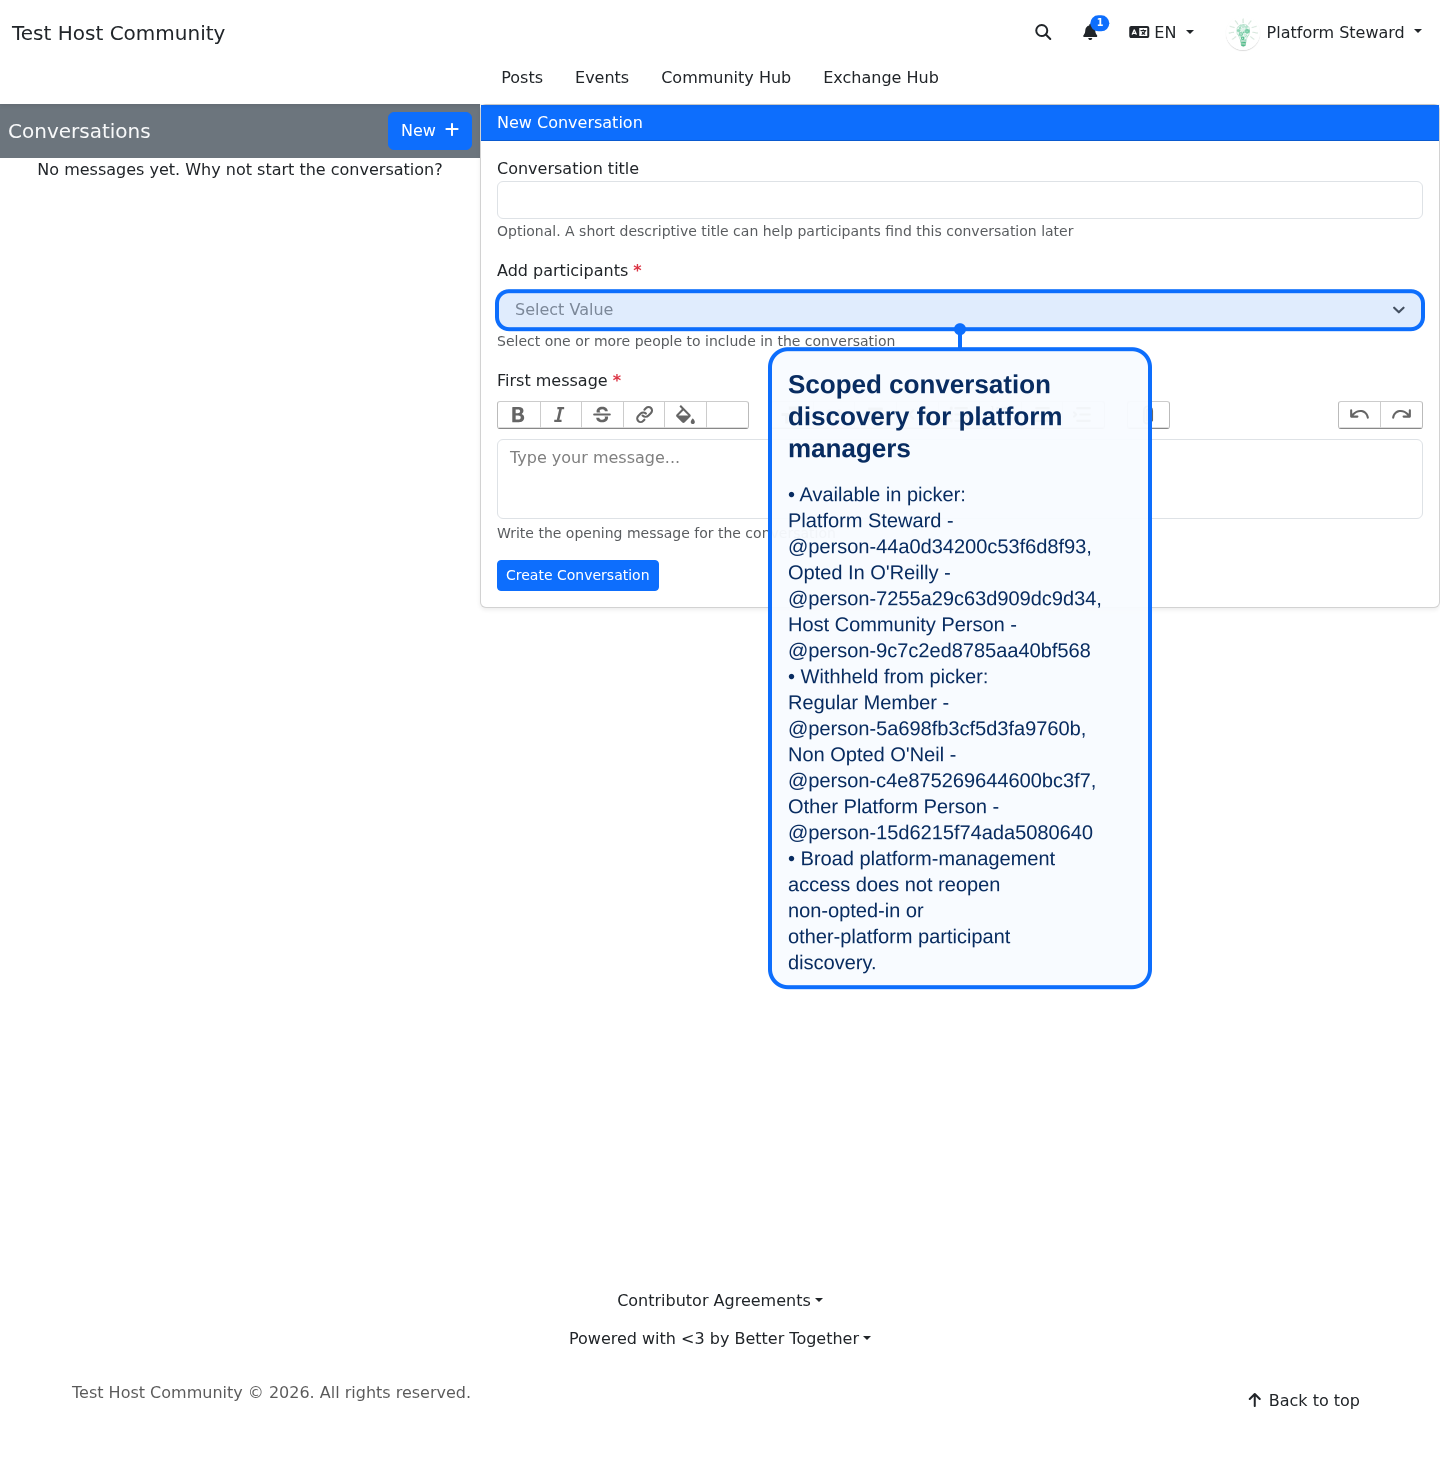
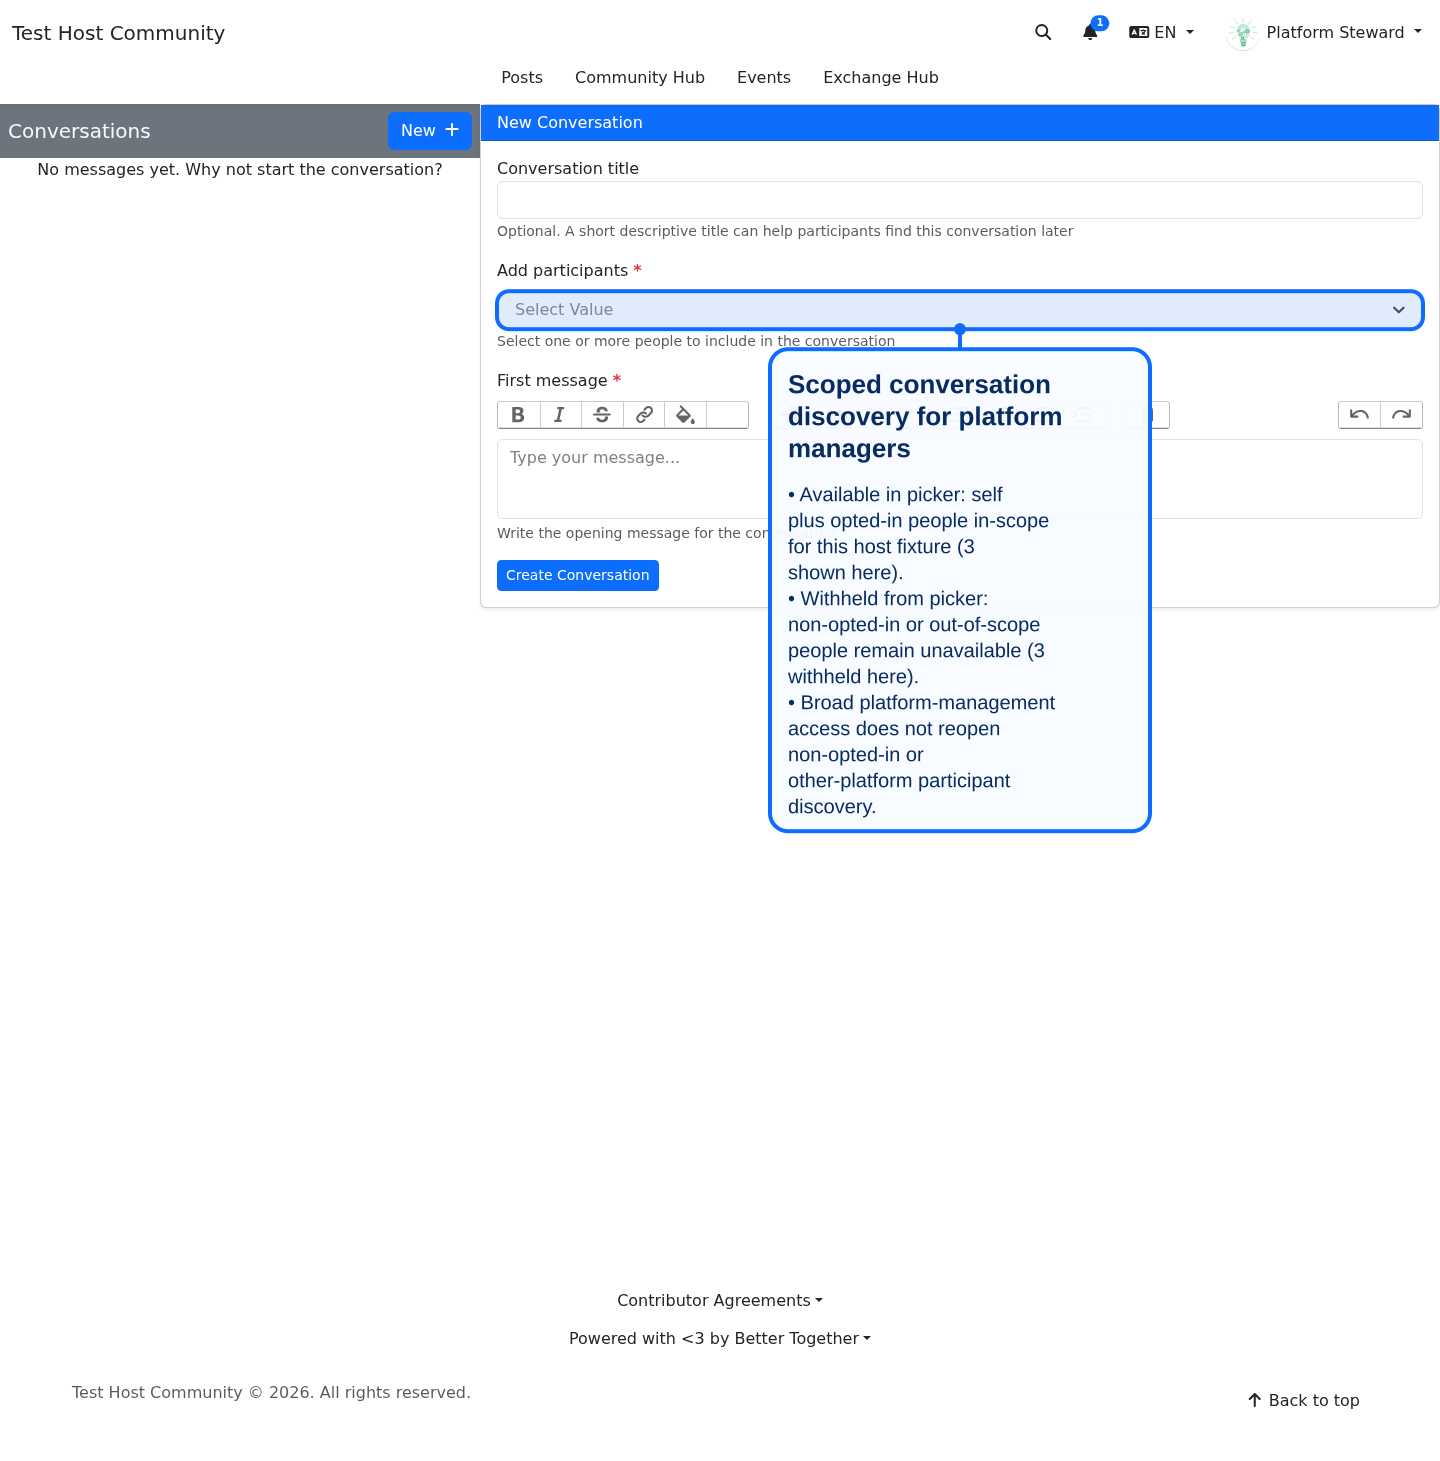
fix(docs): harden screenshot review artifacts
Sanitize screenshot sidecars, fail closed when declared callouts cannot be rendered, and normalize regenerated artifact permissions for git-friendly review updates.

Changed region(s): [[0.5312, 0.3388, 0.8125, 0.6776], [0.4062, 0.0308, 0.5312, 0.0616]]

diff --git a/spec/support/capybara_screenshot_engine.rb b/spec/support/capybara_screenshot_engine.rb
@@ -3,12 +3,15 @@
 require 'capybara'
 require 'fileutils'
 require 'json'
+require 'uri'
 
 module BetterTogether # :nodoc:
   # Captures deterministic desktop and mobile screenshots for documentation specs.
   # rubocop:disable Metrics/ModuleLength
   module CapybaraScreenshotEngine # :nodoc:
     extend self
+
+    class CalloutTargetResolutionError < StandardError; end
 
     SCREENSHOT_ROOT = BetterTogether::Engine.root.join('docs', 'screenshots').freeze
 
@@ -75,13 +78,21 @@ module BetterTogether # :nodoc:
         processed_metadata = default_metadata(name, device).merge(metadata)
         callout_targets = collect_callout_targets(callouts)
         Capybara.page.save_screenshot(image_path.to_s)
+        normalize_artifact_permissions(image_path)
         if callout_targets.any?
-          processed_metadata[:callouts] = BetterTogether::ScreenshotCalloutProcessor.process(
+          processed_callouts = BetterTogether::ScreenshotCalloutProcessor.process(
             image_path,
             callouts: callout_targets
           )
+          if processed_callouts.size != callout_targets.size
+            raise CalloutTargetResolutionError,
+                  "Declared #{callout_targets.size} screenshot callout(s), rendered #{processed_callouts.size}"
+          end
+
+          processed_metadata[:callouts] = processed_callouts
         end
         File.write(json_path, JSON.pretty_generate(processed_metadata))
+        normalize_artifact_permissions(json_path)
       ensure
         restore_sticky_elements
       end
@@ -94,9 +105,8 @@ module BetterTogether # :nodoc:
       {
         name:,
         device: device.to_s,
-        url: safe_page_value { Capybara.page.current_url },
-        title: safe_page_value { Capybara.page.title },
-        captured_at: Time.current.utc.iso8601
+        url: safe_page_value { normalize_page_url(Capybara.page.current_url) },
+        title: safe_page_value { Capybara.page.title }
       }
     end
 
@@ -114,11 +124,18 @@ module BetterTogether # :nodoc:
       nil
     end
 
+    # rubocop:disable Metrics/AbcSize, Metrics/CyclomaticComplexity, Metrics/PerceivedComplexity
     def collect_callout_targets(callouts)
       normalized = Array(callouts).map { |callout| normalize_callout(callout) }.reject { |callout| callout[:selector].blank? }
       return [] if normalized.empty?
 
       geometry_by_selector = fetch_callout_geometry(normalized.map { |callout| callout[:selector] })
+      missing_selectors = normalized.map { |callout| callout[:selector] } - geometry_by_selector.keys
+      if missing_selectors.any?
+        raise CalloutTargetResolutionError,
+              "Could not resolve screenshot callout target(s): #{missing_selectors.join(', ')}"
+      end
+
       normalized.filter_map do |callout|
         geometry = geometry_by_selector[callout[:selector]]
         next unless geometry
@@ -126,6 +143,7 @@ module BetterTogether # :nodoc:
         callout.merge(target: geometry)
       end
     end
+    # rubocop:enable Metrics/AbcSize, Metrics/CyclomaticComplexity, Metrics/PerceivedComplexity
 
     def normalize_callout(callout)
       {
@@ -181,10 +199,26 @@ module BetterTogether # :nodoc:
           }
         ]
       end
-    rescue StandardError
-      {}
+    rescue StandardError => e
+      raise CalloutTargetResolutionError, "Failed to resolve screenshot callout geometry: #{e.message}"
     end
     # rubocop:enable Metrics/AbcSize, Metrics/CyclomaticComplexity, Metrics/MethodLength
+
+    def normalize_page_url(url)
+      return if url.blank?
+
+      uri = URI.parse(url)
+      path = uri.path.presence || '/'
+      uri.query.present? ? "#{path}?#{uri.query}" : path
+    rescue URI::InvalidURIError
+      url.to_s.sub(%r{\Ahttps?://[^/]+}, '')
+    end
+
+    def normalize_artifact_permissions(path)
+      File.chmod(0o644, path.to_s) if File.exist?(path)
+    rescue StandardError
+      nil
+    end
 
     # rubocop:disable Metrics/MethodLength
     def hide_sticky_elements

diff --git a/spec/lib/better_together/capybara_screenshot_engine_spec.rb b/spec/lib/better_together/capybara_screenshot_engine_spec.rb
@@ -47,9 +47,50 @@ module BetterTogether # :nodoc:
 
           metadata = JSON.parse(File.read(File.join(dir, 'desktop', 'conversation_scope.json')))
           expect(metadata['flow']).to eq('conversation_participant_scope')
+          expect(metadata['url']).to eq('/en/conversations/new')
+          expect(metadata).not_to have_key('captured_at')
           expect(metadata['callouts'].size).to eq(1)
           expect(metadata['callouts'].first['selector']).to eq('select[name="conversation[participant_ids][]"]')
           expect(metadata['callouts'].first['placement']['side']).to be_in(%w[right left above below floating])
+          expect(File.stat(File.join(dir, 'desktop', 'conversation_scope.png')).mode & 0o777).to eq(0o644)
+          expect(File.stat(File.join(dir, 'desktop', 'conversation_scope.json')).mode & 0o777).to eq(0o644)
+        end
+      end
+
+      it 'fails closed when a declared callout selector cannot be resolved' do
+        Dir.mktmpdir do |dir|
+          stub_const("#{described_class}::SCREENSHOT_ROOT", Pathname.new(dir))
+
+          fake_page = instance_double(Capybara::Session)
+          allow(described_class).to receive(:register_drivers)
+          allow(described_class).to receive(:driver_for).and_return(:selenium_chrome_headless_docs_desktop)
+          allow(described_class).to receive(:hide_sticky_elements)
+          allow(described_class).to receive(:restore_sticky_elements)
+          allow(Capybara).to receive(:reset_sessions!)
+          allow(Capybara).to receive(:page).and_return(fake_page)
+          allow(Capybara).to receive(:using_driver).and_yield
+          allow(fake_page).to receive_messages(
+            current_url: 'http://example.test/en/conversations/new',
+            title: 'Test Host Community',
+            evaluate_script: []
+          )
+
+          expect do
+            described_class.capture(
+              'missing_callout',
+              device: :desktop,
+              callouts: [
+                {
+                  selector: 'select[name="conversation[participant_ids][]"]',
+                  title: 'Scoped conversation discovery for platform managers',
+                  bullets: ['Available in picker: self']
+                }
+              ]
+            )
+          end.to raise_error(
+            described_class::CalloutTargetResolutionError,
+            /Could not resolve screenshot callout target/
+          )
         end
       end
     end

diff --git a/spec/docs_screenshots/better_together/platform_manager_least_privilege_review_spec.rb b/spec/docs_screenshots/better_together/platform_manager_least_privilege_review_spec.rb
@@ -111,8 +111,8 @@ RSpec.describe 'Documentation screenshots for reduced platform-manager access',
           selector: 'select[name="conversation[participant_ids][]"]',
           title: 'Scoped conversation discovery for platform managers',
           bullets: [
-            "Available in picker: #{expected_allowed_labels.join(', ')}",
-            "Withheld from picker: #{withheld_labels.join(', ')}",
+            "Available in picker: self plus opted-in people in-scope for this host fixture (#{expected_allowed_labels.size} shown here).",
+            "Withheld from picker: non-opted-in or out-of-scope people remain unavailable (#{withheld_labels.size} withheld here).",
             'Broad platform-management access does not reopen non-opted-in or other-platform participant discovery.'
           ]
         }

diff --git a/spec/lib/better_together/screenshot_callout_processor_spec.rb b/spec/lib/better_together/screenshot_callout_processor_spec.rb
@@ -26,6 +26,7 @@ module BetterTogether # :nodoc:
 
           expect(processed.size).to eq(1)
           expect(processed.first[:placement][:side]).to eq('right')
+          expect(File.stat(image_path).mode & 0o777).to eq(0o644)
 
           image = Vips::Image.new_from_file(image_path)
           pixel = image.crop(processed.first[:placement][:x].to_i + 8, processed.first[:placement][:y].to_i + 8, 1, 1).to_a.flatten

diff --git a/spec/support/screenshot_callout_processor.rb b/spec/support/screenshot_callout_processor.rb
@@ -271,7 +271,9 @@ module BetterTogether # :nodoc:
     def write_processed_image(image, image_path)
       Tempfile.create(['docs-callout', '.png'], File.dirname(image_path.to_s)) do |file|
         image.write_to_file(file.path)
+        File.chmod(0o644, file.path)
         FileUtils.mv(file.path, image_path.to_s)
+        File.chmod(0o644, image_path.to_s)
       end
     end
   end
